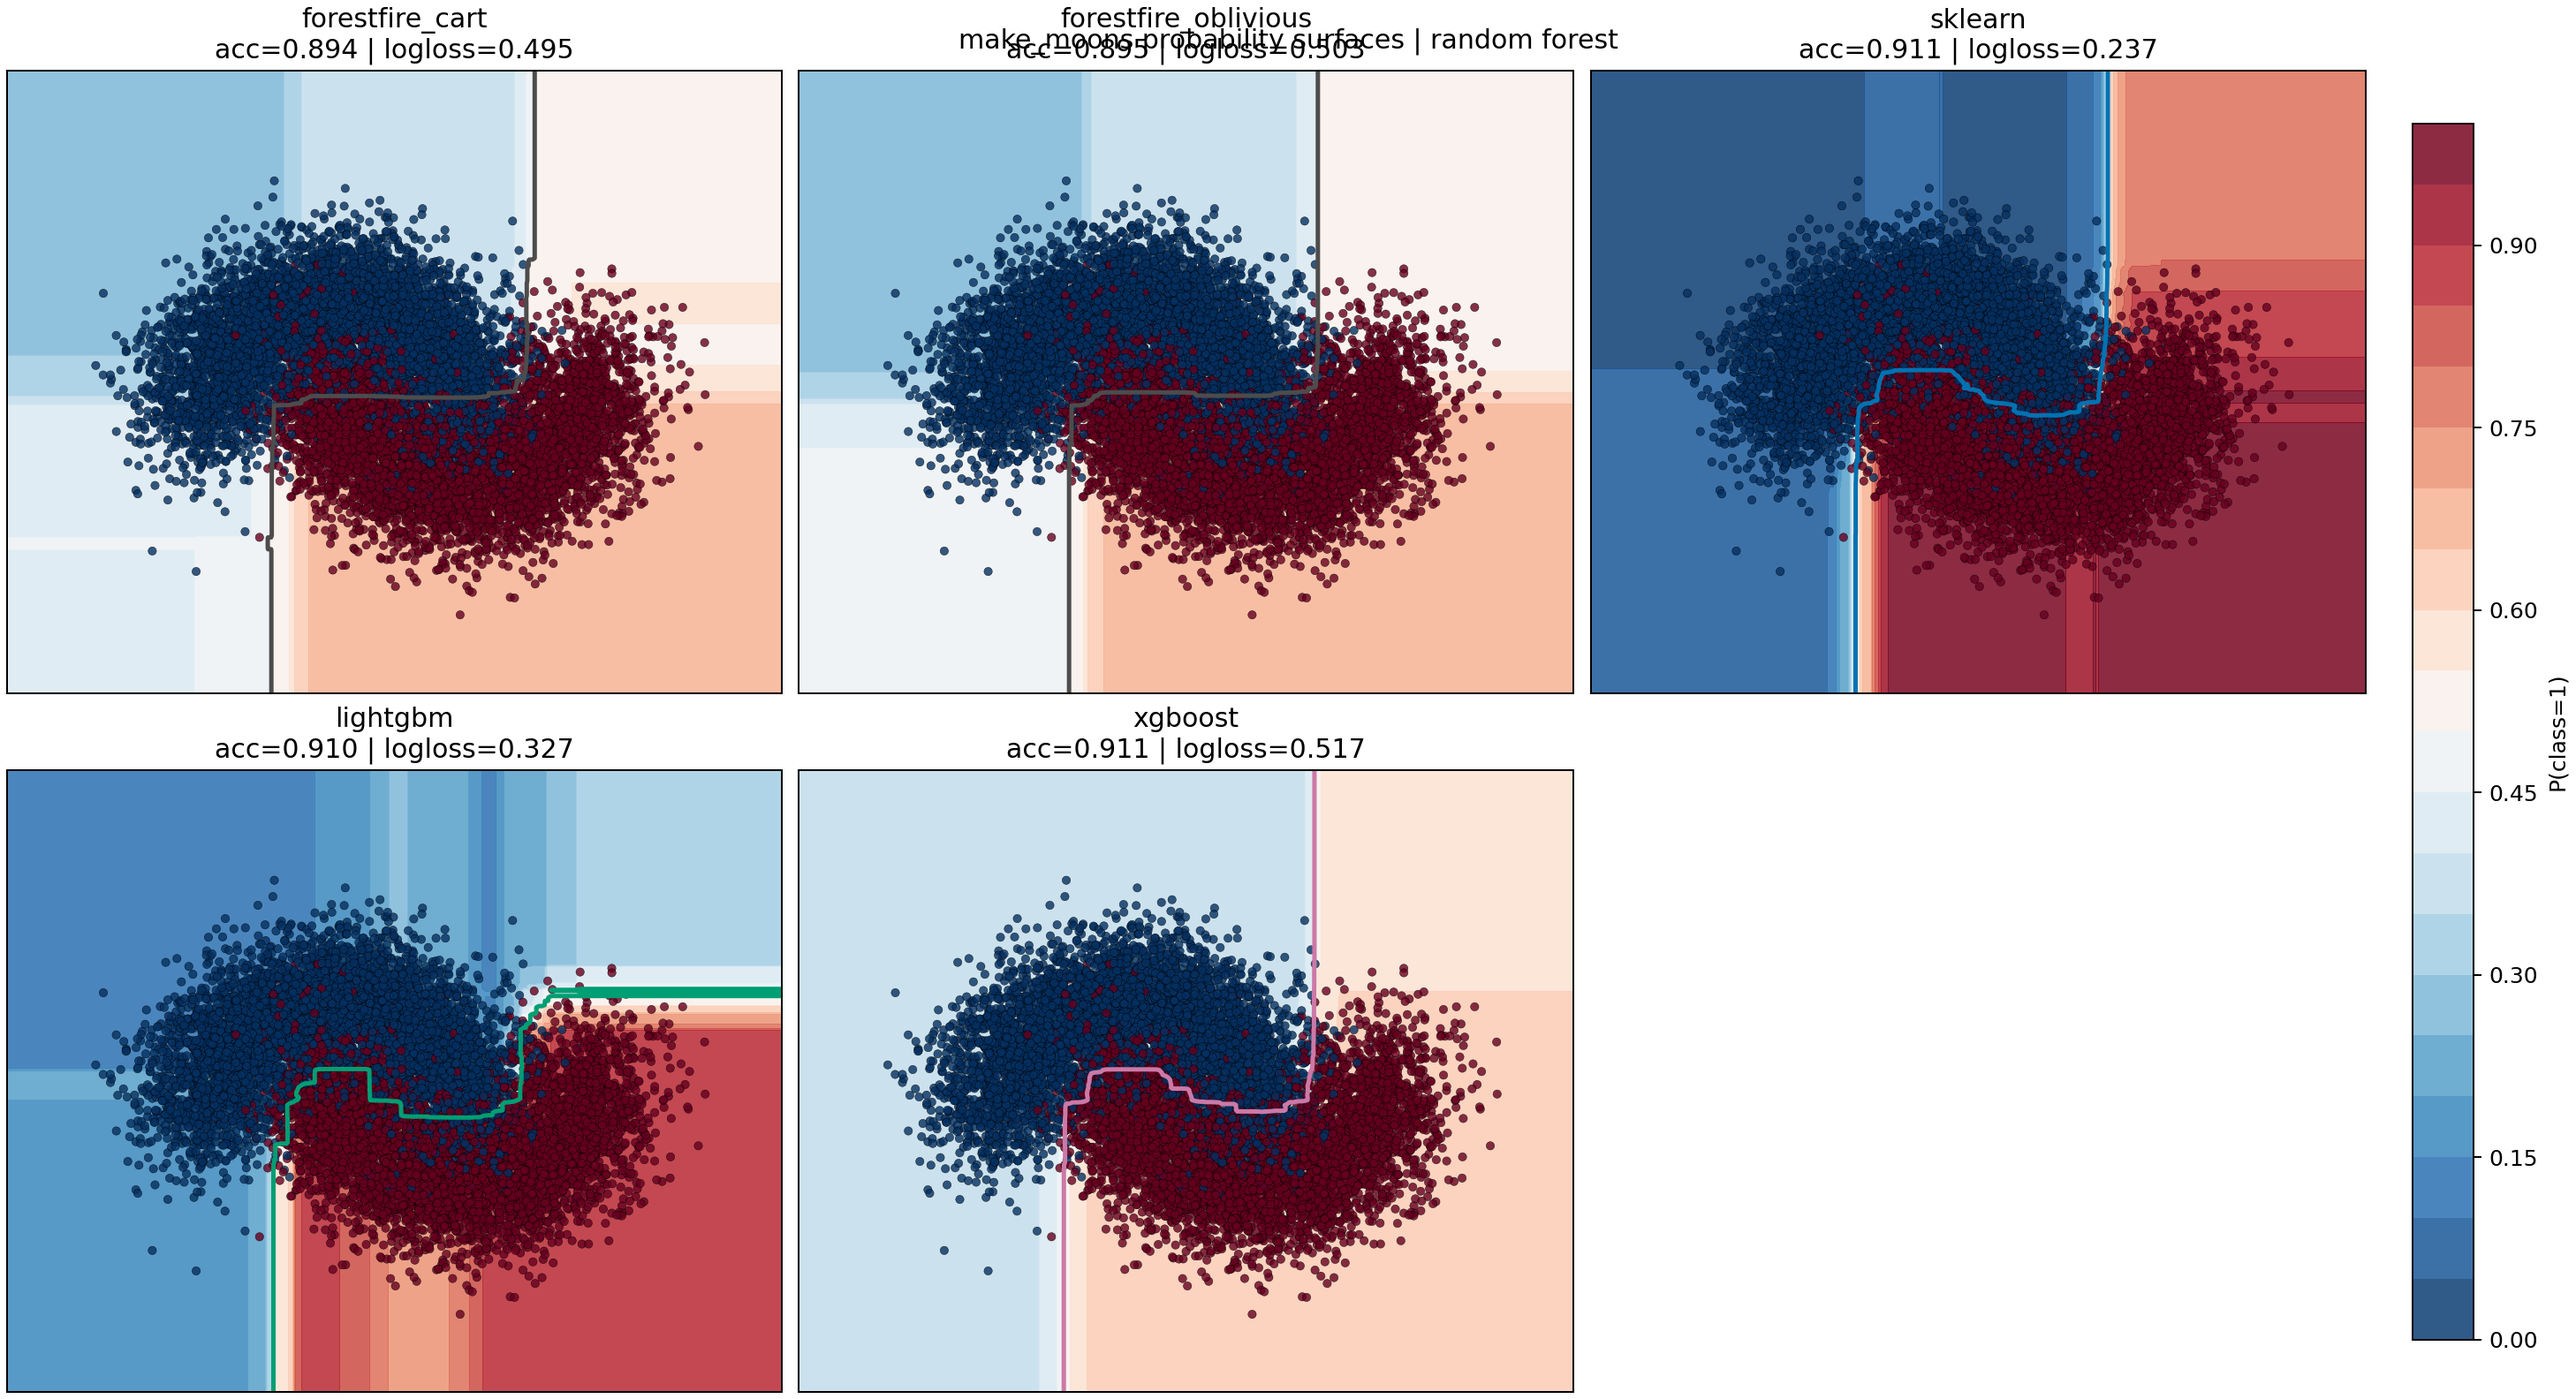
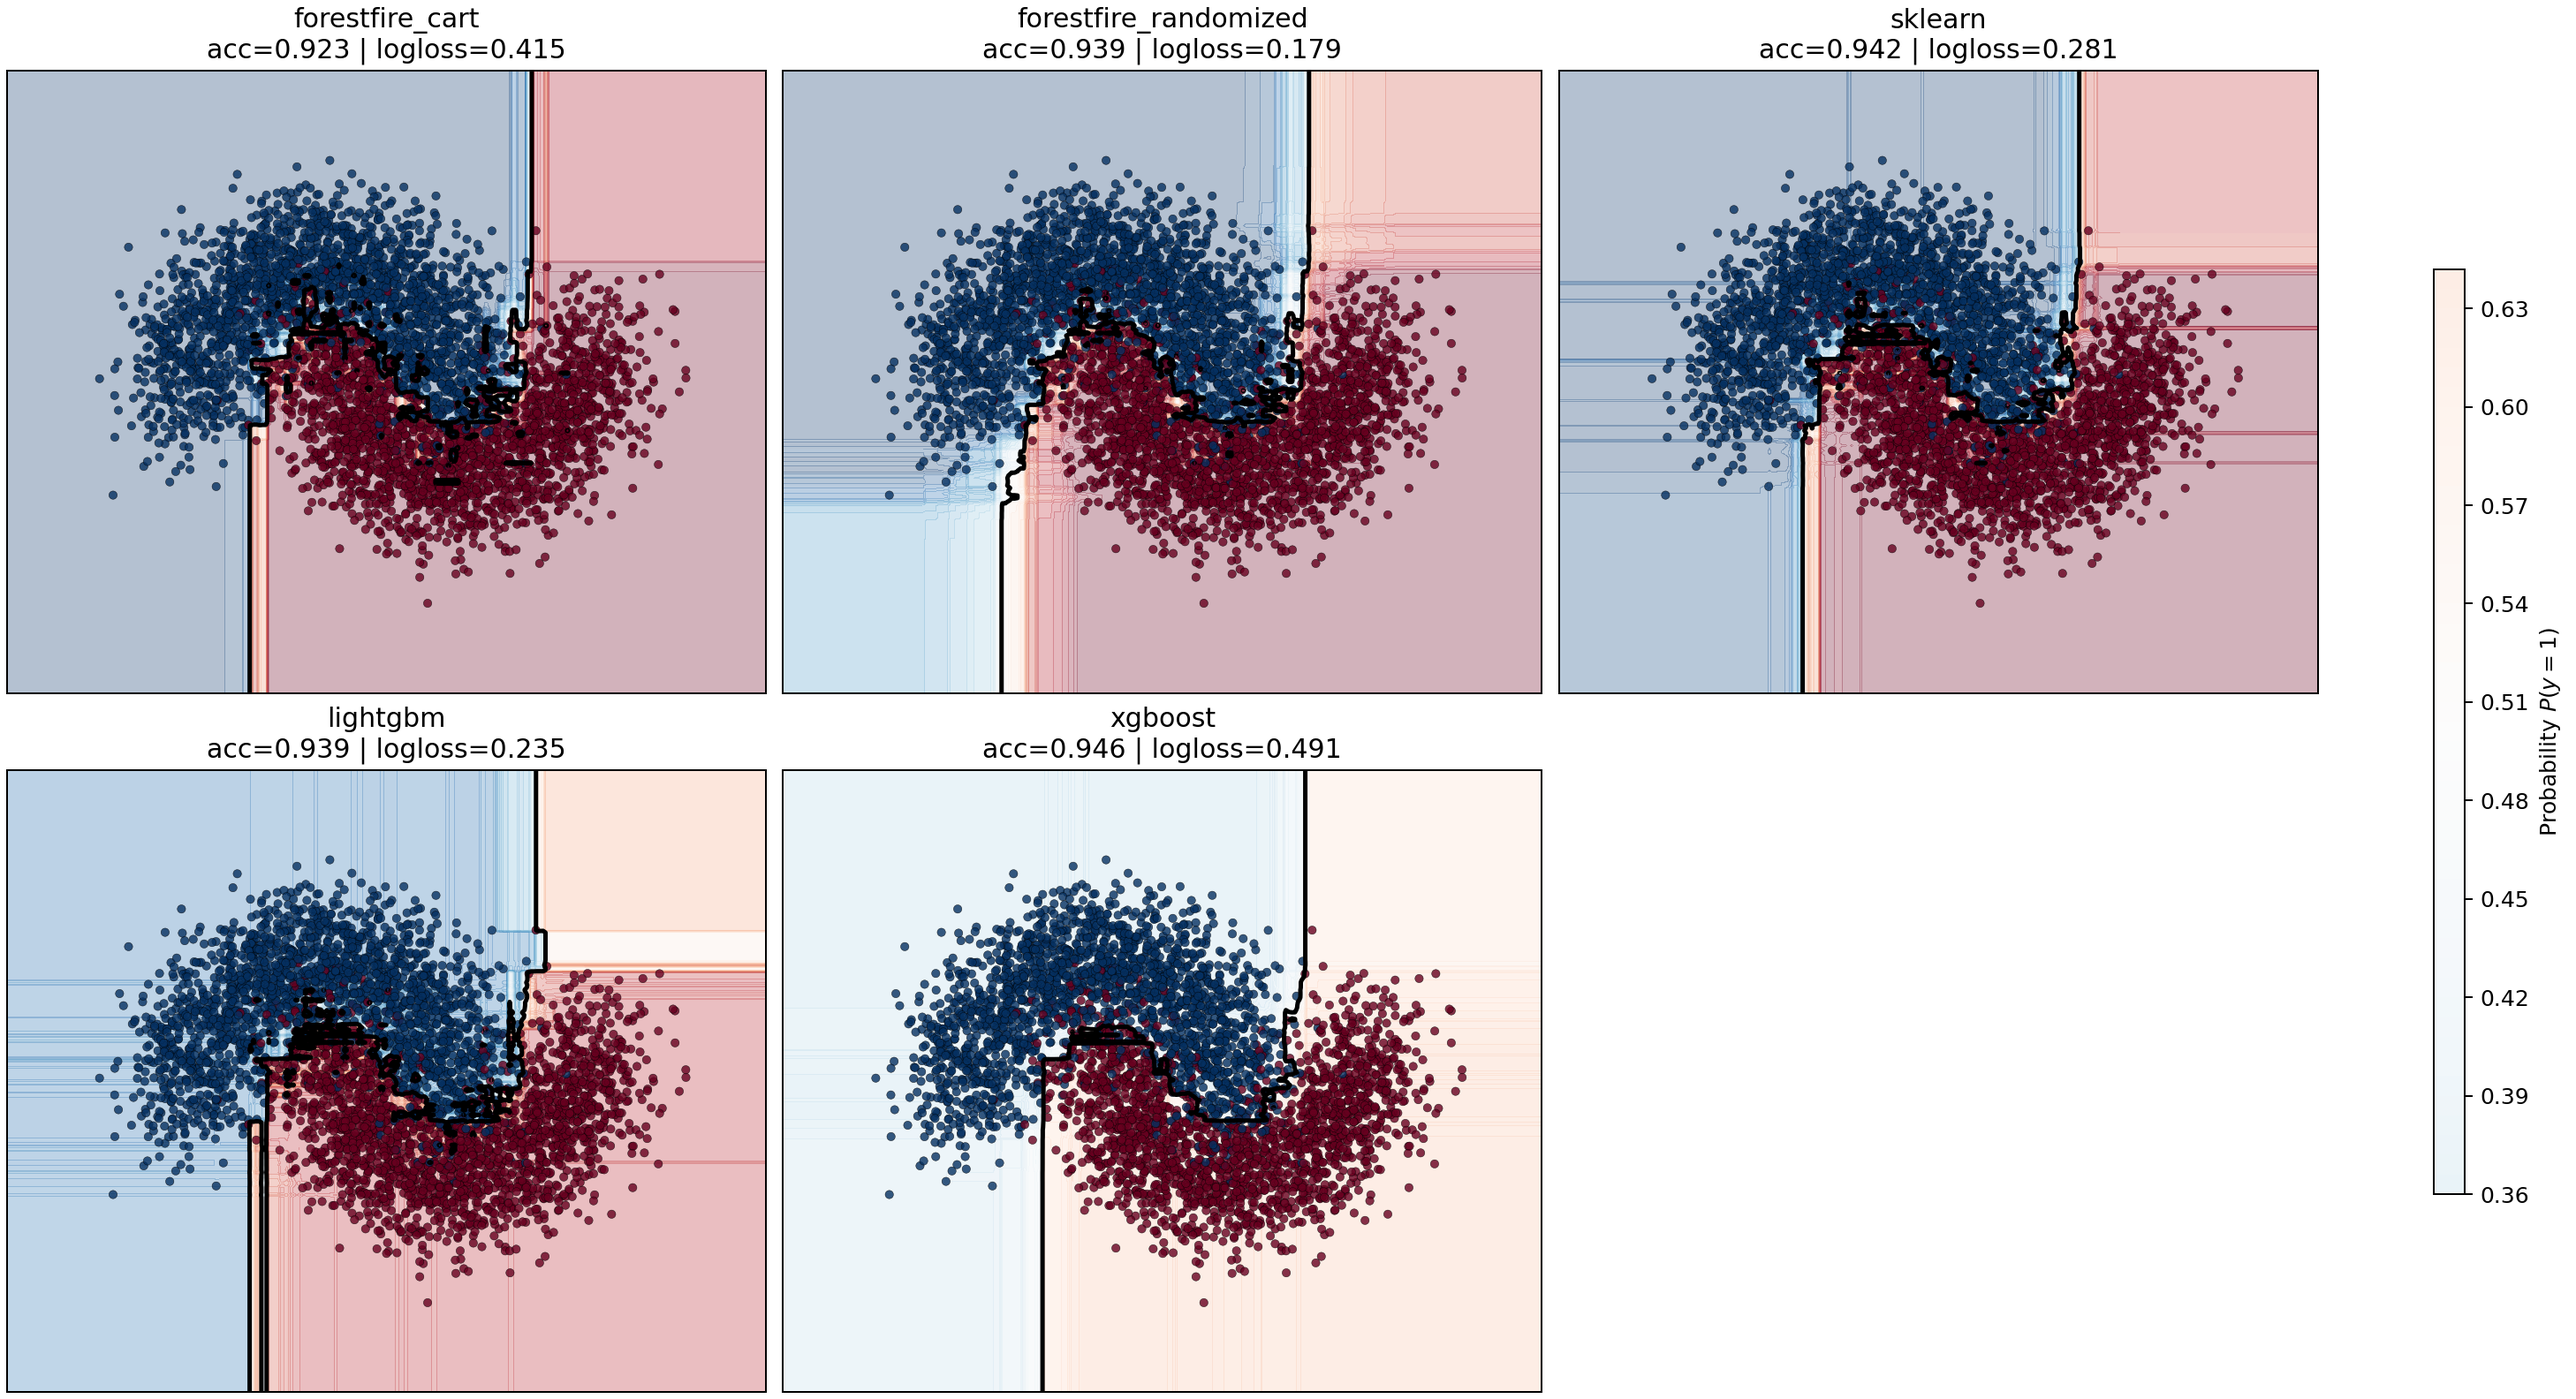
update make_moons benchmark

diff --git a/benchmark/moons_benchmark.py b/benchmark/moons_benchmark.py
@@ -13,7 +13,6 @@ import matplotlib.pyplot as plt
 import numpy as np
 from common import (
     BenchmarkConfig,
-    backend_color,
     catboost_fit,
     ensure_output_dir,
     lightgbm_fit,
@@ -199,51 +198,60 @@ def plot_probability_grid(
     backend_order = [result.backend for result in results]
     n_cols = 3
     n_rows = (len(backend_order) + n_cols - 1) // n_cols
+
+    # layout="constrained" ensures the colorbar doesn't overlap subplots
     fig, axes = plt.subplots(
         n_rows,
         n_cols,
         figsize=(5.4 * n_cols, 4.4 * n_rows),
         squeeze=False,
-        constrained_layout=True,
+        layout="constrained",
     )
     norm = Normalize(vmin=0.0, vmax=1.0)
+    cmap = "RdBu_r"
 
     result_by_backend = {result.backend: result for result in results}
+    last_im = None
+
     for index, backend in enumerate(backend_order):
         ax = axes[index // n_cols][index % n_cols]
         probabilities = mesh_probabilities[backend].reshape(xx.shape)
-        contour = ax.contourf(
-            xx,
-            yy,
-            probabilities,
-            levels=np.linspace(0.0, 1.0, 21),
-            cmap="RdBu_r",
-            alpha=0.85,
-            norm=norm,
+
+        # 1. Background probability fill (bottom layer)
+        last_im = ax.contourf(
+            xx, yy, probabilities, levels=50, cmap=cmap, norm=norm, alpha=0.3, zorder=1
         )
-        ax.contour(
-            xx,
-            yy,
-            probabilities,
-            levels=[0.5],
-            colors=[backend_color(backend)],
-            linewidths=2.0,
-        )
+
+        # 2. Training points (middle layer)
         ax.scatter(
             train_X[:, 0],
             train_X[:, 1],
             c=train_y,
-            cmap="RdBu_r",
+            cmap=cmap,
             norm=norm,
             s=14,
             linewidths=0.2,
             edgecolors="black",
             alpha=0.8,
+            zorder=2,
         )
+
+        # 3. Decision boundary line (top layer, now in black)
+        ax.contour(
+            xx,
+            yy,
+            probabilities,
+            levels=[0.5],
+            colors=["black"],  # Changed to black for high contrast
+            linewidths=2.0,
+            zorder=3,
+        )
+
         result = result_by_backend[backend]
         ax.set_title(
             f"{backend}\nacc={result.accuracy:.3f} | logloss={result.log_loss:.3f}"
         )
+
         if result.note:
             ax.text(
                 0.03,
@@ -258,15 +266,15 @@ def plot_probability_grid(
         ax.set_xticks([])
         ax.set_yticks([])
 
+    # Hide unused axes
     for index in range(len(backend_order), n_rows * n_cols):
         axes[index // n_cols][index % n_cols].axis("off")
 
-    cbar = fig.colorbar(contour, ax=axes, shrink=0.92, pad=0.02)
-    cbar.set_label("P(class=1)")
-    fig.suptitle(
-        f"make_moons probability surfaces | {family.replace('_', ' ')}",
-        y=0.98,
-    )
+    # 4. Global Colorbar on the right
+    if last_im:
+        cbar = fig.colorbar(last_im, ax=axes, location="right", shrink=0.7, aspect=30)
+        cbar.set_label("Probability $P(y=1)$")
+
     fig.savefig(output_path, dpi=180)
     plt.close(fig)
 
@@ -302,13 +310,14 @@ def family_backends(family: str) -> list[str]:
     if family == "random_forest":
         return [
             "forestfire_cart",
-            "forestfire_oblivious",
+            "forestfire_randomized",
             "sklearn",
             "lightgbm",
             "xgboost",
         ]
     return [
         "forestfire_cart",
+        "forestfire_randomized",
         "forestfire_oblivious",
         "sklearn",
         "lightgbm",
@@ -365,6 +374,9 @@ def main() -> None:
         fitters: dict[str, Any] = {
             "forestfire_cart": lambda: forestfire_fit_with_tree_type(
                 family, "cart", train_X, train_y, args
+            ),
+            "forestfire_randomized": lambda: forestfire_fit_with_tree_type(
+                family, "randomized", train_X, train_y, args
             ),
             "forestfire_oblivious": lambda: forestfire_fit_with_tree_type(
                 family, "oblivious", train_X, train_y, args

diff --git a/docs/benchmarks/moons_summary_gradient_boosting.md b/docs/benchmarks/moons_summary_gradient_boosting.md
@@ -6,10 +6,10 @@ Probability plot: `moons_probabilities_gradient_boosting.png`
 
 | backend | train | predict | accuracy | log loss |
 | --- | ---: | ---: | ---: | ---: |
-| `forestfire_cart` | `0.003182s` | `0.001153s` | `0.5000` | `0.6931` |
-  note: No trees were added. The ensemble stayed at its base score, so the probability surface is constant.
-| `forestfire_oblivious` | `0.005469s` | `0.001301s` | `0.8888` | `0.5769` |
-| `sklearn` | `0.133885s` | `0.020901s` | `0.9086` | `0.2355` |
-| `lightgbm` | `0.030878s` | `0.014413s` | `0.9076` | `0.2369` |
-| `xgboost` | `0.019859s` | `0.003688s` | `0.9072` | `0.2373` |
-| `catboost` | `0.386568s` | `0.002678s` | `0.9129` | `0.2297` |
+| `forestfire_cart` | `0.033153s` | `0.003082s` | `0.9448` | `0.1546` |
+| `forestfire_randomized` | `0.033208s` | `0.002609s` | `0.9458` | `0.1910` |
+| `forestfire_oblivious` | `0.054168s` | `0.001101s` | `0.9463` | `0.1559` |
+| `sklearn` | `1.085889s` | `0.013969s` | `0.9429` | `0.1673` |
+| `lightgbm` | `0.031958s` | `0.012658s` | `0.9429` | `0.1652` |
+| `xgboost` | `0.033780s` | `0.011209s` | `0.9453` | `0.1585` |
+| `catboost` | `0.308426s` | `0.002152s` | `0.9429` | `0.1519` |

diff --git a/docs/benchmarks/moons_summary_random_forest.md b/docs/benchmarks/moons_summary_random_forest.md
@@ -6,8 +6,8 @@ Probability plot: `moons_probabilities_random_forest.png`
 
 | backend | train | predict | accuracy | log loss |
 | --- | ---: | ---: | ---: | ---: |
-| `forestfire_cart` | `0.356772s` | `0.068455s` | `0.8940` | `0.4947` |
-| `forestfire_oblivious` | `0.290355s` | `0.056405s` | `0.8950` | `0.5027` |
-| `sklearn` | `0.888049s` | `0.054626s` | `0.9114` | `0.2368` |
-| `lightgbm` | `0.113960s` | `0.055991s` | `0.9102` | `0.3273` |
-| `xgboost` | `0.090129s` | `0.056261s` | `0.9112` | `0.5173` |
+| `forestfire_cart` | `2.819376s` | `0.039456s` | `0.9233` | `0.4151` |
+| `forestfire_randomized` | `4.011775s` | `0.045686s` | `0.9395` | `0.1795` |
+| `sklearn` | `0.534519s` | `0.024532s` | `0.9419` | `0.2814` |
+| `lightgbm` | `0.441031s` | `0.044241s` | `0.9390` | `0.2350` |
+| `xgboost` | `0.160633s` | `0.014220s` | `0.9458` | `0.4905` |
